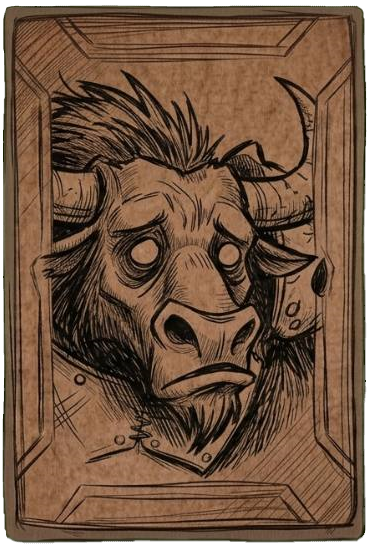
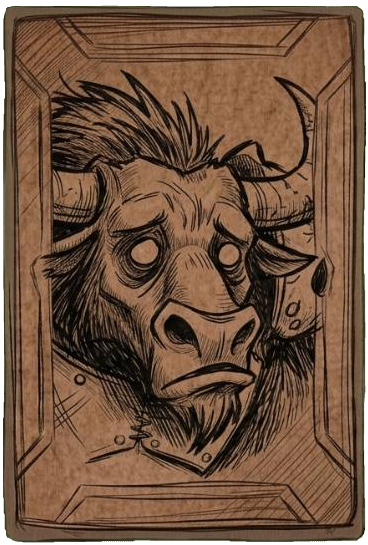
Refine information portrait transparency

Changed region(s): [[0.9864, 0.2807, 1.0, 0.9982], [0.9864, 0.0312, 1.0, 0.156]]

diff --git a/test_v2_auto_battle.js b/test_v2_auto_battle.js
@@ -134,10 +134,10 @@ for (const slug of ["death-knight", "skeleton-spear", "ghoul", "ancient-treant",
   }
 }
 
-assert(worker.includes('necromancer-expedition-v240'), "Service worker cache version was not advanced.");
+assert(worker.includes('necromancer-expedition-v241'), "Service worker cache version was not advanced.");
 assert(worker.includes("v2-auto-battle-practice.html"), "Auto battle page is not cached.");
 assert(worker.includes("v2-auto-battle-practice.css?v=50"), "Turn dice, lineup picker and illustrated unit info styling is not cached.");
-assert(worker.includes("v2-auto-battle-practice.js?v=69") && worker.includes("v2-legions.js?v=3") && worker.includes("v2-battle-brands.js?v=3"), "Turn-based status battle logic is not cached.");
+assert(worker.includes("v2-auto-battle-practice.js?v=70") && worker.includes("v2-legions.js?v=3") && worker.includes("v2-battle-brands.js?v=3"), "Turn-based status battle logic is not cached.");
 assert(source.includes('serviceWorker.register("./service-worker.js", { updateViaCache: "none" })'), "The standalone battle page must request service-worker updates directly.");
 assert(worker.includes('new Request(event.request, { cache: "reload" })'), "Navigation must bypass stale browser HTTP cache before updating the offline copy.");
 assert(worker.includes("art/v2-style/ui/freeze-status-label.png"), "Persistent freeze label is not cached.");
@@ -147,9 +147,9 @@ for (const slug of ["goblin-commoner","sea-wolf","grave-priest","abyss-eye","doo
 for (const slug of ["abyss-claw-hunter", "corpse-slime", "medusa", "siren", "abyss-harpy", "grave-worm", "goblin-commoner", "spiderling", "skeleton-cavalry", "mummy-guardian", "soul-reaper", "bone-hound", "mimic", "ice-princess", "hydra", "flesh-golem", "forest-fairy", "bone-golem", "boulder-ogre", "orc-warrior", "goblin-rider", "mushroom-soldier", "cerberus", "raging-treant", "spider-knight", "skeleton-archer", "skeleton-spear", "crystal-devourer", "kraken", "stone-golem", "ancient-treant", "scorpion-knight", "hell-mantis", "death-knight", "doom-executor", "abyss-eye", "grave-priest", "sea-wolf", "goblin-soldier", "goblin-chief", "ghoul", "plague-doctor", "yeti", "ice-lord", "plague-frog", "minotaur"]) {
   const portrait = `art/v2-style/ui/info-portraits/${slug}.png`;
   assert(fs.existsSync(path.join(root, portrait)), `Information portrait is missing: ${slug}`);
-  assert(worker.includes(`${portrait}?v=${slug === "siren" ? 2 : 1}`), `Information portrait is not cached: ${slug}`);
+  assert(worker.includes(`${portrait}?v=${slug === "siren" ? 3 : slug === "minotaur" ? 2 : 1}`), `Information portrait is not cached: ${slug}`);
 }
-assert(fs.existsSync(path.join(root, "art/v2-style/ui/info-portraits/guardian-seed.png")) && worker.includes("art/v2-style/ui/info-portraits/guardian-seed.png?v=1"), "Guardian Seed information portrait must be stored and cached.");
+assert(fs.existsSync(path.join(root, "art/v2-style/ui/info-portraits/guardian-seed.png")) && worker.includes("art/v2-style/ui/info-portraits/guardian-seed.png?v=2"), "Guardian Seed information portrait must be stored and cached.");
 for (const slug of ["guardian-seed","spiderling"]) assert(worker.includes(`art/v2-style/ui/unit-card-${slug}.jpg`), `Summoned ${slug} card art is not cached.`);
 assert(worker.includes("art/v2-style/ui/legion-slot-frame.png"), "The cropped one-cell legion frame is not cached.");
 assert(fs.existsSync(path.join(root, "art/v2-style/ui/corpse-selection-arrow.png")) && worker.includes("art/v2-style/ui/corpse-selection-arrow.png"), "The corpse-selection arrow asset must be stored and cached.");
@@ -286,9 +286,9 @@ assert(vm.runInContext("new Set(ROSTER.map(unit => unit.slug)).size", infoContex
 assert(vm.runInContext("ROSTER_BY_SLUG.get('abyss-claw-hunter').name", infoContext) === "심연 집게사냥꾼", "The new monster must be selectable by its assigned name.");
 assert(vm.runInContext("ROSTER_BY_SLUG.get('corpse-slime').name", infoContext) === "시체 슬라임", "Corpse Slime must be selectable by its assigned name.");
 for (const slug of ["abyss-claw-hunter", "corpse-slime", "siren", "abyss-harpy", "grave-worm", "goblin-commoner", "spiderling", "skeleton-cavalry", "mummy-guardian", "soul-reaper", "bone-hound", "mimic", "ice-princess", "hydra", "flesh-golem", "forest-fairy", "bone-golem", "boulder-ogre", "orc-warrior", "goblin-rider", "mushroom-soldier", "cerberus", "raging-treant", "spider-knight", "skeleton-archer", "skeleton-spear", "crystal-devourer", "kraken", "stone-golem", "ancient-treant", "scorpion-knight", "hell-mantis", "death-knight", "doom-executor", "abyss-eye", "grave-priest", "sea-wolf", "goblin-soldier", "goblin-chief", "ghoul", "plague-doctor", "yeti", "ice-lord", "plague-frog", "minotaur"]) {
-  assert(vm.runInContext(`ROSTER_BY_SLUG.get('${slug}').infoPortrait`, infoContext) === `art/v2-style/ui/info-portraits/${slug}.png?v=${slug === "siren" ? 2 : 1}`, `Dedicated information portrait is not connected: ${slug}`);
+  assert(vm.runInContext(`ROSTER_BY_SLUG.get('${slug}').infoPortrait`, infoContext) === `art/v2-style/ui/info-portraits/${slug}.png?v=${slug === "siren" ? 3 : slug === "minotaur" ? 2 : 1}`, `Dedicated information portrait is not connected: ${slug}`);
 }
-assert(vm.runInContext("INFO_PORTRAIT_ART['guardian-seed']", infoContext) === "art/v2-style/ui/info-portraits/guardian-seed.png?v=1", "Guardian Seed information portrait must be connected to summoned unit data.");
+assert(vm.runInContext("INFO_PORTRAIT_ART['guardian-seed']", infoContext) === "art/v2-style/ui/info-portraits/guardian-seed.png?v=2", "Guardian Seed information portrait must be connected to summoned unit data.");
 assert(vm.runInContext("INFO_PORTRAIT_ART.medusa", infoContext) === "art/v2-style/ui/info-portraits/medusa.png?v=1", "Medusa information portrait must remain registered for its roster connection.");
 infoContext.selected = { ...vm.runInContext("ROSTER_BY_SLUG.get('abyss-claw-hunter')", infoContext), hp: 10, alive: true, team: "ally" };
 vm.runInContext("openUnitInfo(selected)", infoContext);

diff --git a/service-worker.js b/service-worker.js
@@ -1,4 +1,4 @@
-const CACHE_NAME = "necromancer-expedition-v240";
+const CACHE_NAME = "necromancer-expedition-v241";
 const APP_SHELL = [
   "./",
   "./index.html",
@@ -49,7 +49,7 @@ const APP_SHELL = [
   "./v2-auto-battle-practice.css?v=50",
   "./v2-battle-brands.js?v=3",
   "./v2-legions.js?v=3",
-  "./v2-auto-battle-practice.js?v=69",
+  "./v2-auto-battle-practice.js?v=70",
   "./art/v2-style/ui/freeze-status-label.png",
   "./art/v2-style/ui/legion-slot-frame.png",
   "./art/v2-style/ui/legion-info-window-hd.png?v=2",
@@ -201,7 +201,7 @@ const APP_SHELL = [
   "./art/v2-style/ui/info-portraits/abyss-claw-hunter.png?v=1",
   "./art/v2-style/ui/info-portraits/corpse-slime.png?v=1",
   "./art/v2-style/ui/info-portraits/medusa.png?v=1",
-  "./art/v2-style/ui/info-portraits/siren.png?v=2",
+  "./art/v2-style/ui/info-portraits/siren.png?v=3",
   "./art/v2-style/ui/info-portraits/abyss-harpy.png?v=1",
   "./art/v2-style/ui/info-portraits/grave-worm.png?v=1",
   "./art/v2-style/ui/info-portraits/goblin-commoner.png?v=1",
@@ -243,8 +243,8 @@ const APP_SHELL = [
   "./art/v2-style/ui/info-portraits/yeti.png?v=1",
   "./art/v2-style/ui/info-portraits/ice-lord.png?v=1",
   "./art/v2-style/ui/info-portraits/plague-frog.png?v=1",
-  "./art/v2-style/ui/info-portraits/minotaur.png?v=1",
-  "./art/v2-style/ui/info-portraits/guardian-seed.png?v=1",
+  "./art/v2-style/ui/info-portraits/minotaur.png?v=2",
+  "./art/v2-style/ui/info-portraits/guardian-seed.png?v=2",
   "./art/v2-style/processed/192/ghoul.png",
   "./art/v2-style/processed/192/goblin-rider.png",
   "./art/v2-style/processed/192/ogre.png",

diff --git a/v2-auto-battle-practice.js b/v2-auto-battle-practice.js
@@ -37,7 +37,7 @@
     "abyss-claw-hunter": `${INFO_PORTRAIT_ROOT}abyss-claw-hunter.png?v=1`,
     "corpse-slime": `${INFO_PORTRAIT_ROOT}corpse-slime.png?v=1`,
     medusa: `${INFO_PORTRAIT_ROOT}medusa.png?v=1`,
-    siren: `${INFO_PORTRAIT_ROOT}siren.png?v=2`,
+    siren: `${INFO_PORTRAIT_ROOT}siren.png?v=3`,
     "abyss-harpy": `${INFO_PORTRAIT_ROOT}abyss-harpy.png?v=1`,
     "grave-worm": `${INFO_PORTRAIT_ROOT}grave-worm.png?v=1`,
     "goblin-commoner": `${INFO_PORTRAIT_ROOT}goblin-commoner.png?v=1`,
@@ -79,8 +79,8 @@
     yeti: `${INFO_PORTRAIT_ROOT}yeti.png?v=1`,
     "ice-lord": `${INFO_PORTRAIT_ROOT}ice-lord.png?v=1`,
     "plague-frog": `${INFO_PORTRAIT_ROOT}plague-frog.png?v=1`,
-    minotaur: `${INFO_PORTRAIT_ROOT}minotaur.png?v=1`,
-    "guardian-seed": `${INFO_PORTRAIT_ROOT}guardian-seed.png?v=1`
+    minotaur: `${INFO_PORTRAIT_ROOT}minotaur.png?v=2`,
+    "guardian-seed": `${INFO_PORTRAIT_ROOT}guardian-seed.png?v=2`
   });
   // Viewports into the unmodified uploaded icon sheet: top row, then bottom row.
   const BRAND_ICON_VIEWS = Object.freeze({

diff --git a/v2-auto-battle-practice.html b/v2-auto-battle-practice.html
@@ -148,6 +148,6 @@
   <script src="v2-damage-digits.js?v=4"></script>
   <script src="v2-unit-size.js?v=5"></script>
   <script src="v2-unit-cards.js?v=23"></script>
-  <script src="v2-auto-battle-practice.js?v=69"></script>
+  <script src="v2-auto-battle-practice.js?v=70"></script>
 </body>
 </html>
